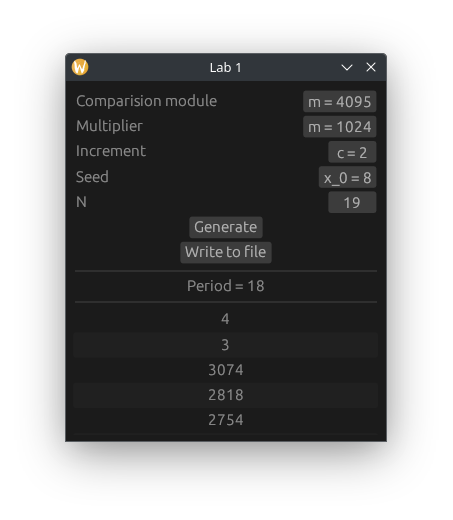
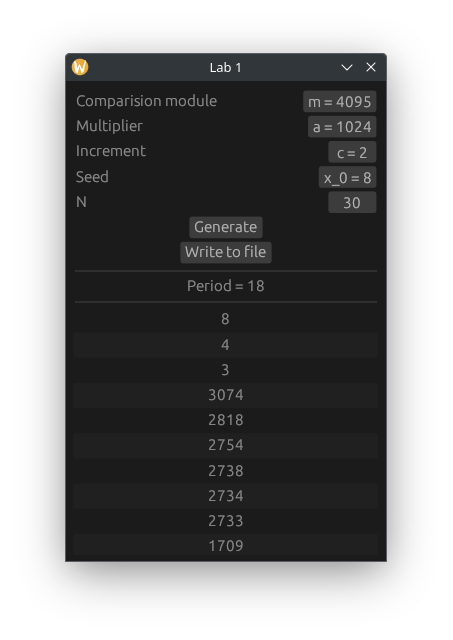
Upd.

Changed region(s): [[0.1236, 0.0615, 0.8653, 0.4308], [0.1236, 0.3385, 0.8653, 0.8923]]

diff --git a/42SecurityOfProgramsAndData/lab1/lab1.tex b/42SecurityOfProgramsAndData/lab1/lab1.tex
@@ -118,7 +118,7 @@
 	{\small	\lstinputlisting{src/main.rs}}
 	
 	\section*{Висновки}
-	Під час виконання лабораторної роботи я ознайомився зі способам отримання випадкових чисел за допомогою алгоритмму лінійного порівняння для отримання псевдовипадкових чисел і реалізував його. Для мого варіанту алгоритм генерує псевдовипадкові числа з періодом 17, що свідчить про те, що параметри є погано підібраними. Проте, цей генератор може бути придатним для задач криптографії у випадку використання адекватного множника, інкремента та модуля порівняння і різного початкового значення (наприклад, системний час).
+	Під час виконання лабораторної роботи я ознайомився зі способам отримання випадкових чисел за допомогою алгоритмму лінійного порівняння для отримання псевдовипадкових чисел і реалізував його. Для мого варіанту алгоритм генерує псевдовипадкові числа з періодом 18, що свідчить про те, що параметри є погано підібраними. Проте, цей генератор може бути придатним для задач криптографії у випадку використання адекватного множника, інкремента та модуля порівняння і різного початкового значення (наприклад, системний час).
 	    
 \end{normalsize}
 \end{document}

diff --git a/42SecurityOfProgramsAndData/lab1/src/lib.rs b/42SecurityOfProgramsAndData/lab1/src/lib.rs
@@ -18,26 +18,17 @@ impl Random {
 
 impl Random {
     pub fn period(&mut self) -> usize {
-        let mut rng = self.clone();
-        let mut seen = std::collections::HashSet::new();
-        let mut count = 0;
-        while seen.insert(rng.next()) {
+        let mut a = self.clone();
+        let mut b = self.clone();
+        let mut x = a.next();
+        b.next();
+        let mut y = b.next();
+        let mut count = 1;
+        while x != y {
             count += 1;
-            if count > 100 {
-                let mut a = self.clone();
-                let mut b = self.clone();
-                _ = a.next();
-                _ = b.next();
-                _ = b.next();
-                let mut count = 1;
-                while a.x != b.x {
-                    count += 1;
-                    _ = a.next();
-                    _ = b.next();
-                    _ = b.next();
-                }
-                return count;
-            }
+            x = a.next();
+            b.next();
+            y = b.next();
         }
         count
     }
